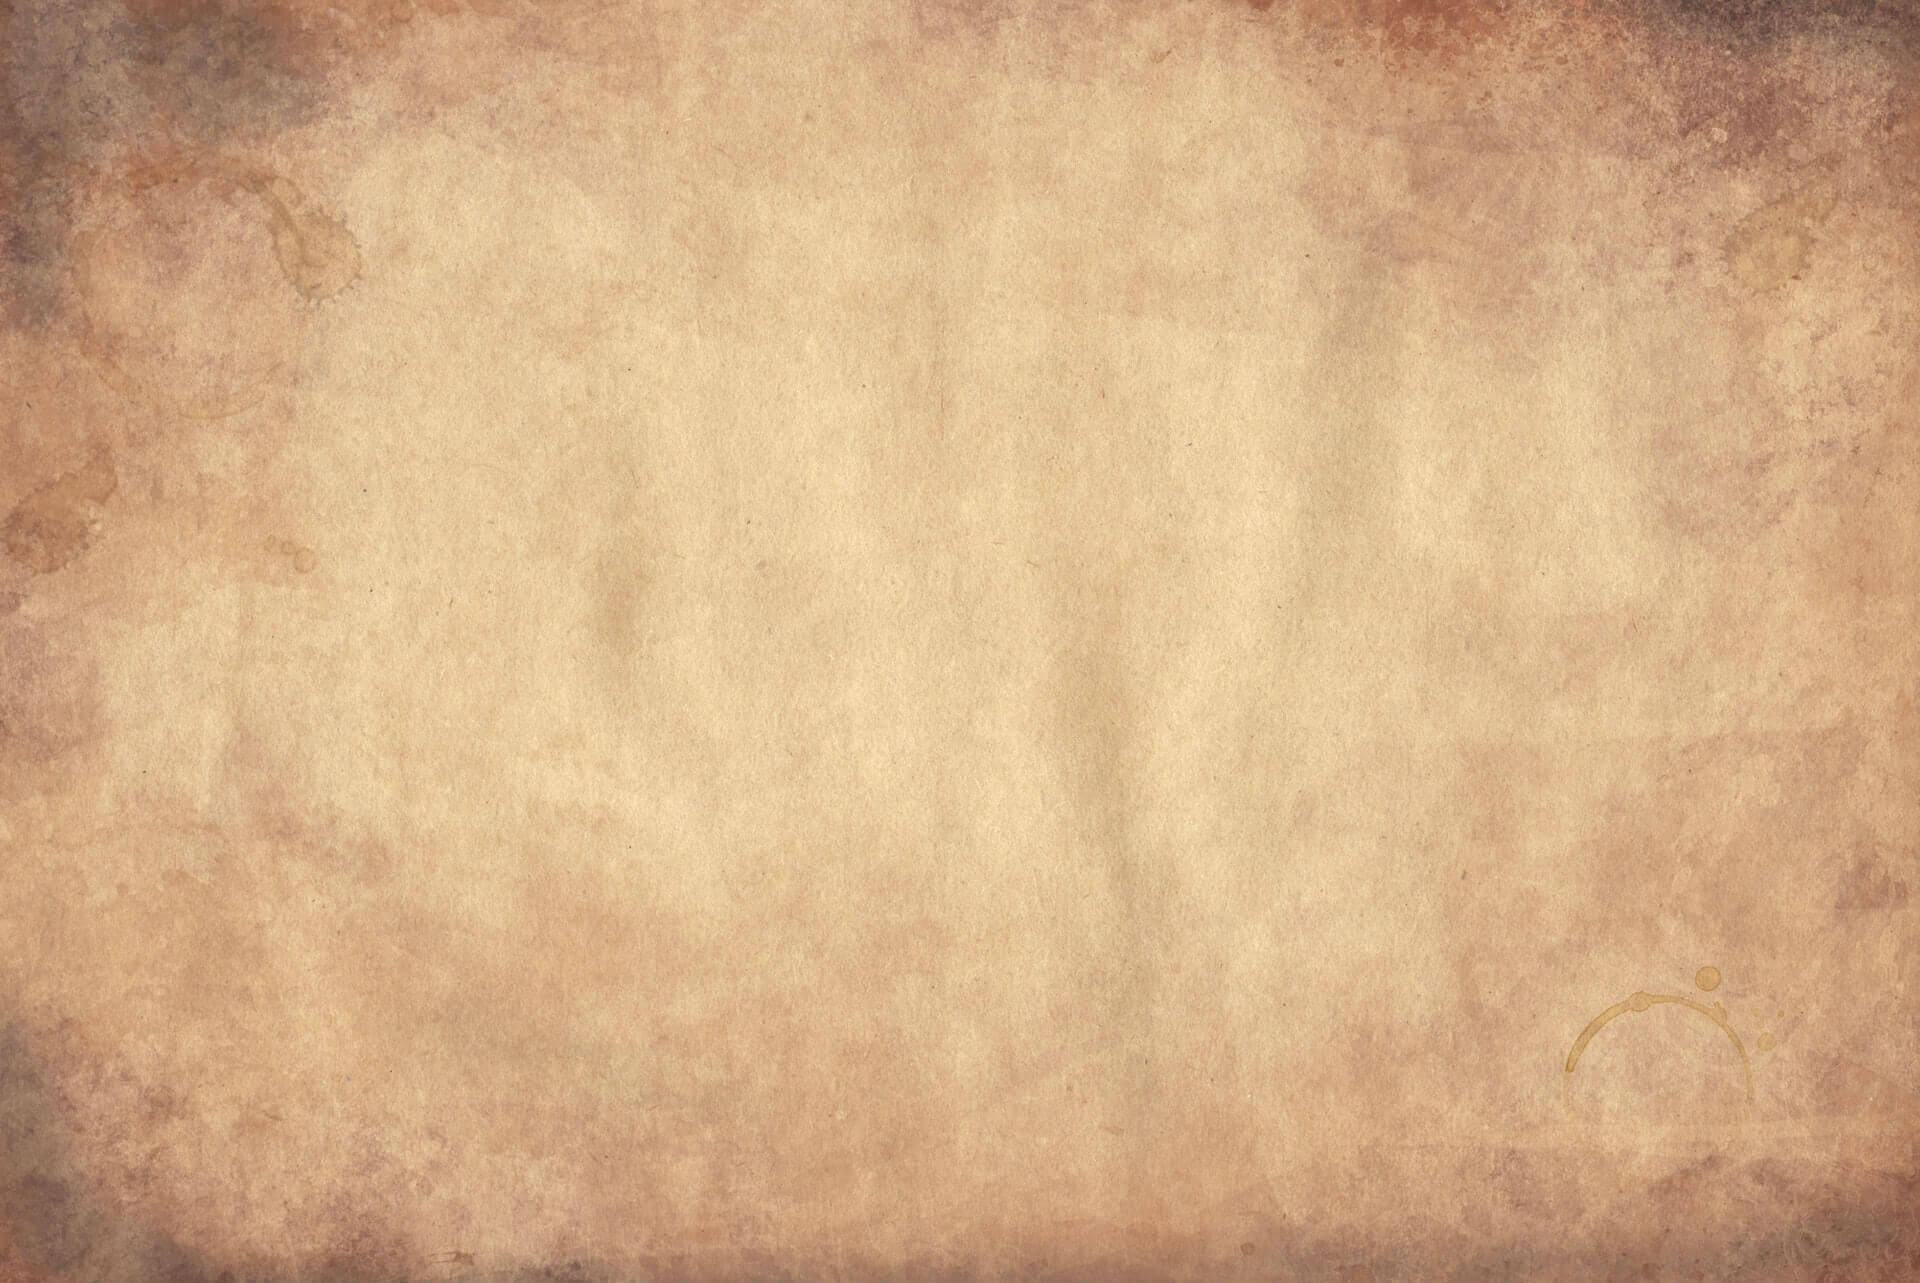
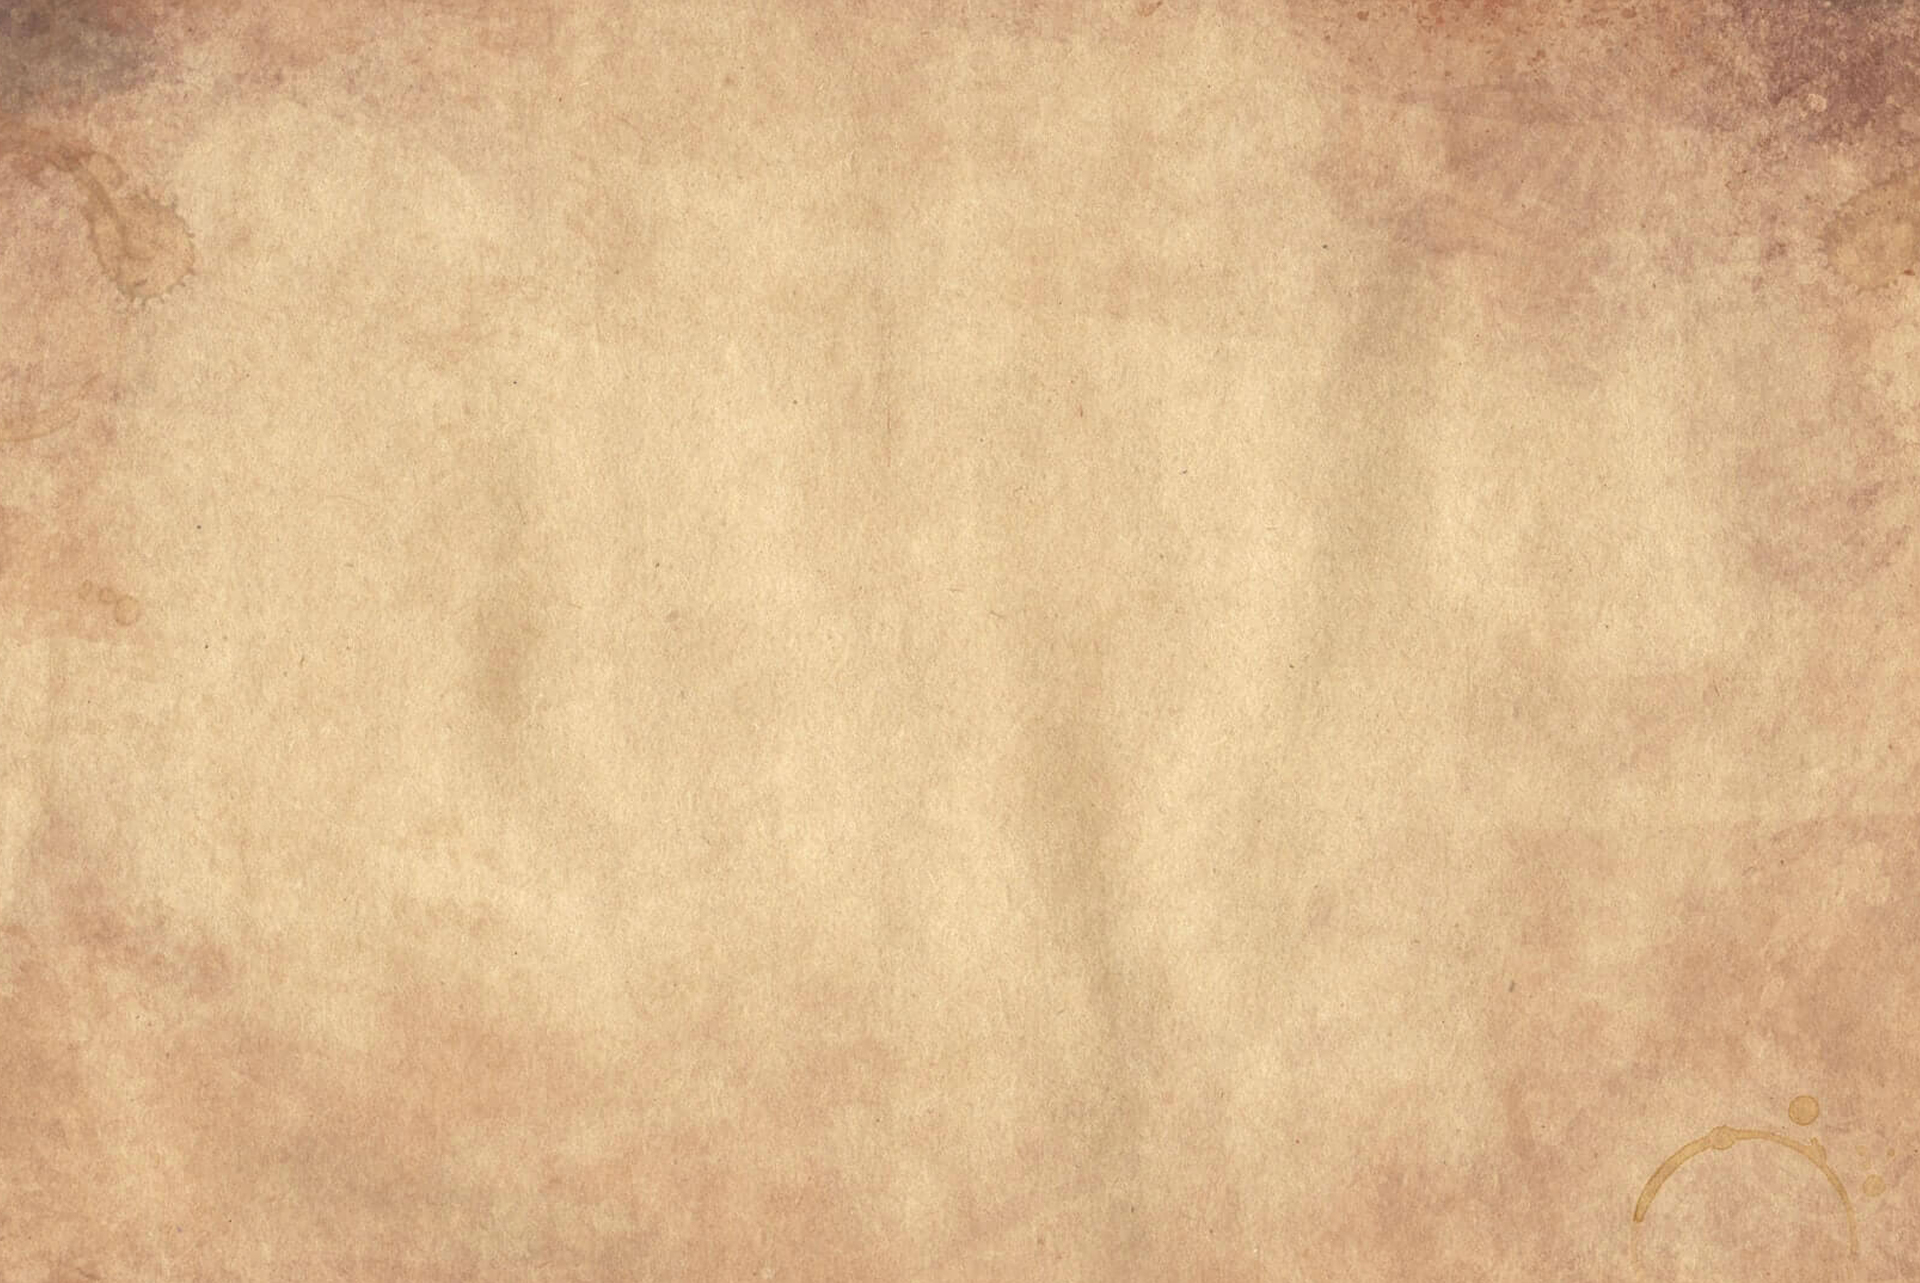
Improve design

diff --git a/src/app/components/menu/menu.component.html b/src/app/components/menu/menu.component.html
@@ -14,4 +14,7 @@
   <a routerLink="section/media" class="link">
     <img src="assets/shields/press-release-shield.png" alt="Press release" class="shield">
   </a>
+  <a routerLink="section/schedule" class="link">
+    <img src="assets/shields/schedule-shield.png" alt="Press release" class="shield">
+  </a>
 </div>

diff --git a/src/app/pages/sections/session-detail/session-detail.component.scss b/src/app/pages/sections/session-detail/session-detail.component.scss
@@ -34,10 +34,11 @@
     display: flex;
     flex-direction: column;
     align-items: center;
-    padding: 12px 24px;
+    padding: 12px 12px;
     flex: 1;
     background-color: #ecd4a8;
     border: 2px solid #333333;
+    margin: 0 24px;
 
     .session-name {
       margin-top: 0;
